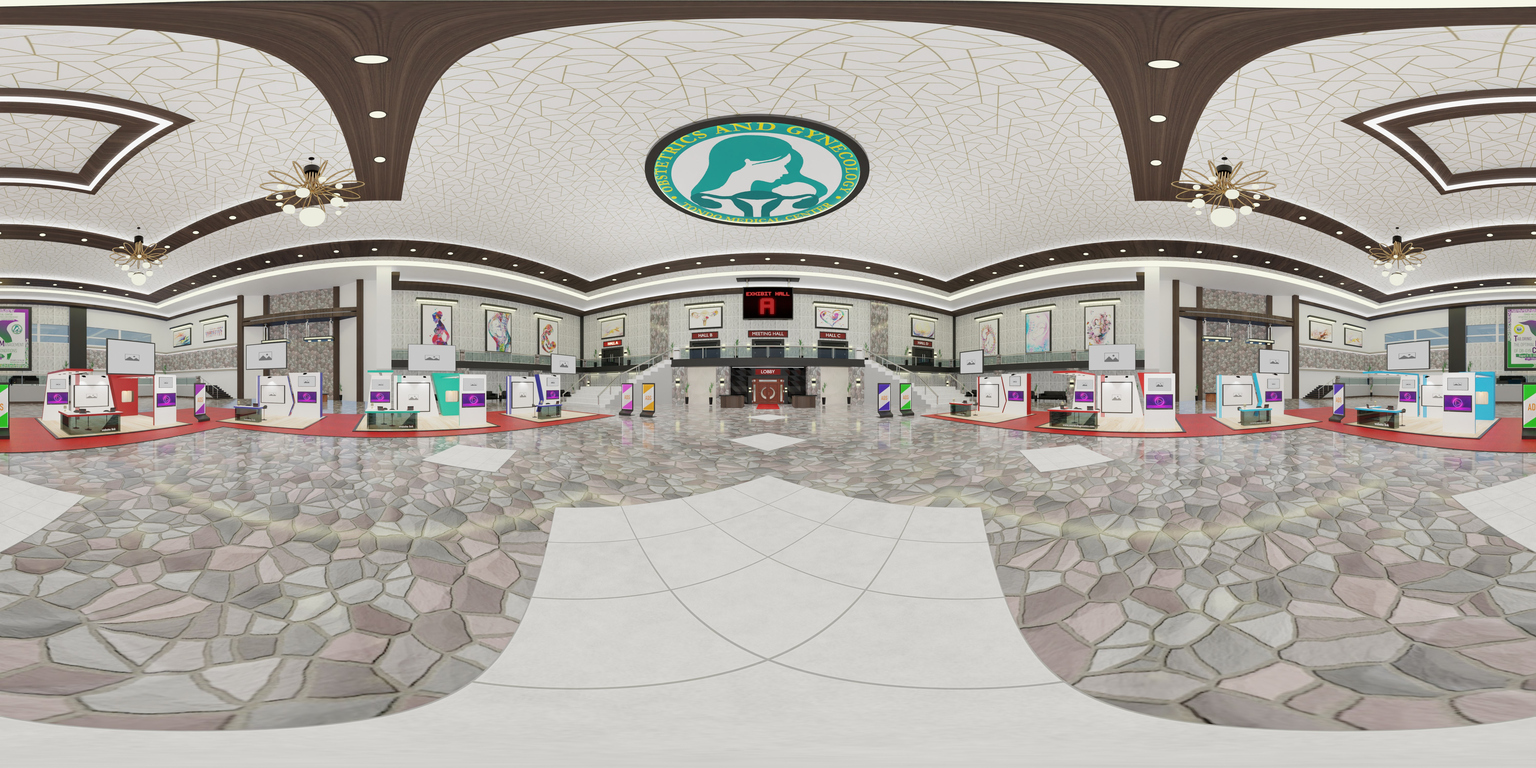
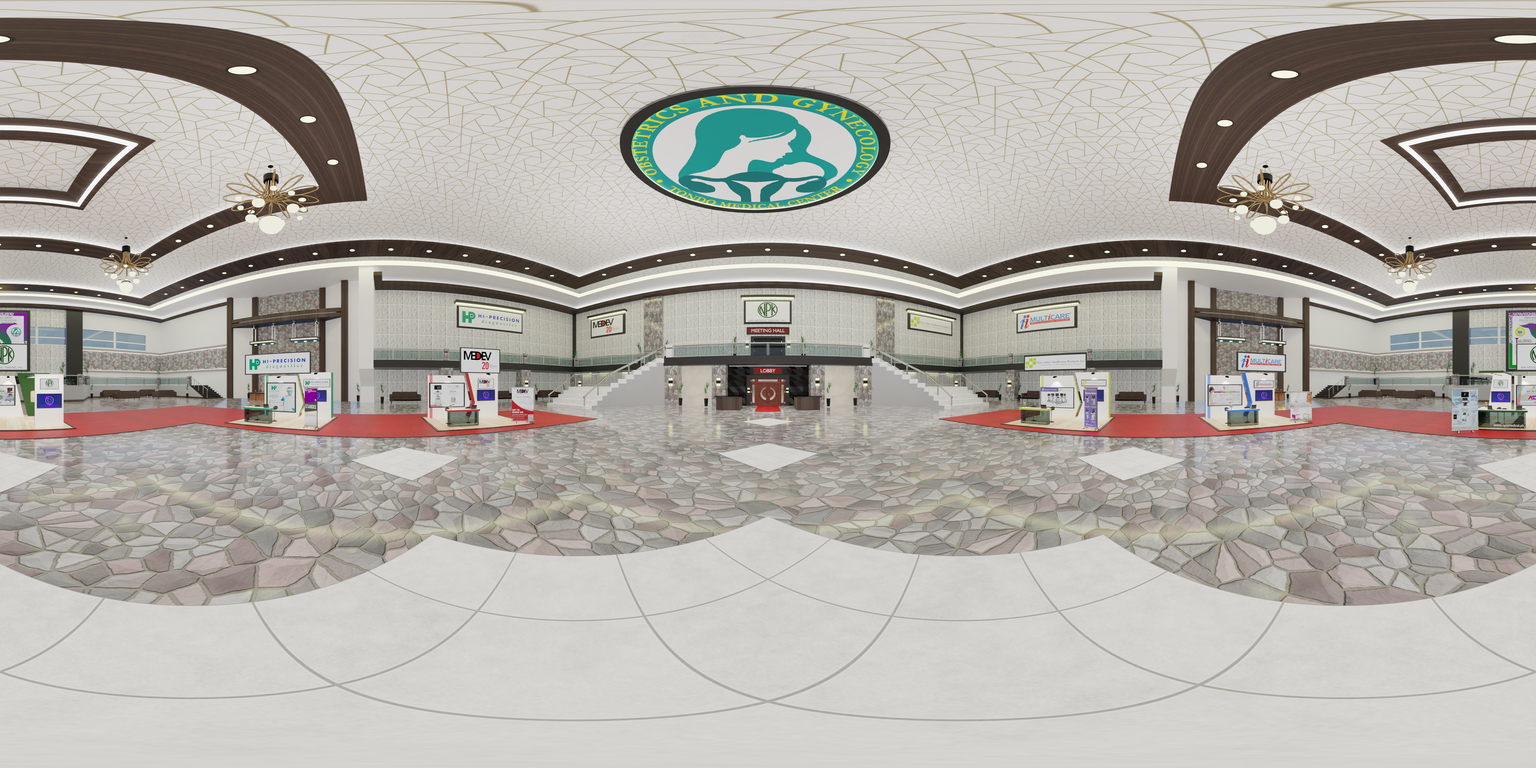
update Booth Coordinates

diff --git a/database/seeders/BoothSeeder.php b/database/seeders/BoothSeeder.php
@@ -67,96 +67,97 @@ class BoothSeeder extends Seeder
 
             'Hall A' => [
                 // left facing lobby/ hall a exit
-                ['MEDTEK', -1.73, -48.56, 'silver', "MEDTEK.png", "MEDTEK.png",
+                ['MEDEV', -1.42, -63.18, 'bronze', "MEDEV.png", "MEDEV.png",
                     [
-                        ['External Link','-14','-17.13','https://medtek.com.ph'],
-                        ['Contact Us','-5','-12',''],
-                        ['Quiz','-5','-22',''],
-                        ['Brochures','2','-4',''],
-                        ['Videos','1','14',''],
-                        ['Gallery','2','-14',''],
+                        ['External Link', '0','0','https://abbott.com'],
+                        ['Contact Us','0','0',''],
+                        ['Quiz', '0','0',''],
+                        ['Brochures', '0','0',''],
+                        ['Videos', '0','0',''],
+                        ['Gallery', '0','0','']
                     ]
                 ],
                 // SPONSOR_R2
-                ['LifelineDiagnostics', -2.35, -78.09, 'silver', "LifelineDiagnostics.png", "LifelineDiagnostics.png",
+                ['Hi-Precision', -1.62, -117.94, 'bronze', "Hi-Precision.png", "Hi-Precision.png",
                     [
-                        ['External Link','-14.88', '-24.08','https://lifelinediag.com'],
-                        ['Contact Us','-4.69', '-22.21',''],
-                        ['Quiz','-4.69', '-32.44',''],
-                        ['Brochures','1.31', '2.06',''],
-                        ['Videos','1.33', '33.19',''],
-                        ['Gallery','1.31', '-7.91',''],
+                        ['External Link', '0','0','https://abbott.com'],
+                        ['Contact Us','0','0',''],
+                        ['Quiz', '0','0',''],
+                        ['Brochures', '0','0',''],
+                        ['Videos', '0','0',''],
+                        ['Gallery', '0','0','']
                     ]
                 ],
 
                 // SPONSOR_R3
-                ['AGAPPE', -1.81, -115.98, 'silver', "AGAPPE.png", "AGAPPE.png",
+                ['NPK', -2.34, -179.85, 'silver', "NPK.png", "NPK.png",
                     [
-                        ['External Link', '-14.09','-16.98', 'https://agappe.com'],
-                        ['Contact Us', '-5.01','-15.86',''],
-                        ['Quiz', '-5.01','-23.12',''],
-                        ['Brochures', '2.30','-5.31',''],
-                        ['Videos', '1.00','11.84',''],
-                        ['Gallery', '2.30','-13.13',''],
+                        ['External Link', '-14.64','-19.15','https://npkmedical.ph'],
+                        ['Contact Us','-8.62','-10.57',''],
+                        ['Quiz', '-7.73','-26.06',''],
+                        ['Brochures', '-2.19','14.83',''],
+                        ['Videos', '-2.20','-14.82',''],
+                        ['Gallery', '-1.36','-1.40','']
                     ]
                 ],
 
 
                 // LEFT SPONSOR_L4
-                ['Ortho Clinical Diagnostics', -1.89, -150.59, 'silver', "Ortho.png", "Ortho.png",
+                ['Multicare', -0.85, 117.22, 'bronze', "Multicare.png", "Multicare.png",
                     [
-                        ['External Link', '-9.24', '-18.72','https://orthoclinicaldiagnostics.com'],
-                        ['Contact Us', '-3.34', '-13.67',''],
-                        ['Quiz', '-3.34', '-21.41',''],
-                        ['Brochures', '1.59', '3.76',''],
-                        ['Videos', '1.17', '26.57',''],
-                        ['Gallery', '1.59', '-5.74',''],
+                        ['External Link', '-15.28','-13.80','https://journeytomotherhoodandbeyond.info'],
+                        ['Contact Us','-9.23','-6.75',''],
+                        ['Quiz', '-8.81','-17.10',''],
+                        ['Brochures', '-1.18','-1.59',''],
+                        ['Videos', '-2.41','11.19',''],
+                        ['Gallery', '-1.16','-11.11','']
                     ]
                 ],
                 // SPONSOR_L5
-                ['Abbott', -2.53, 148.75, 'silver', "Abbott.png", "Abbott.png",
+                ['Toyo Adtec', -0.32, 63.65, 'bronze', "Toyo_Adtec.png", "Toyo_Adtec.png",
                     [
-                        ['External Link', '-9.48','-16.65','https://abbott.com'],
-                        ['Contact Us', '-3.33','-14.54',''],
-                        ['Quiz','-3.33', '-22.45',''],
-                        ['Brochures', '1.38','2.77',''],
-                        ['Videos', '1.12','25.19',''],
-                        ['Gallery', '1.38','-6.16',''],
+                        ['External Link', '-15.11','-13.88','https://tahealthcaregroup.com'],
+                        ['Contact Us','-9.32','-6.84',''],
+                        ['Quiz', '-8.35','-17.68',''],
+                        ['Brochures', '-2.81','-2.86',''],
+                        ['Videos', '-2.14','10.50',''],
+                        ['Gallery', '-2.81','-13.54','']
                     ]
                 ],
+
                 // SPONSOR_L6
-                ['I.T. EASY SOFTWARE SOLUTIONS INC.', -1.56, 118.42, 'silver', "it_easy.png", "it_easy.png",
-                    [
-                        ['External Link', '-14.17','-13.87','https://easy.com.ph'],
-                        ['Contact Us', '-4.80','-12.18',''],
-                        ['Quiz','-4.80', '-20.86',''],
-                        ['Brochures', '2.37','-5.24',''],
-                        ['Videos', '1.00','13.74',''],
-                        ['Gallery', '2.25','-12.52',''],
-                    ]
-                ],
-                // SPONSOR_L7
-                ['MUREX', -0.93, 79.06, 'silver', "MUREX.png", "MUREX.png",
-                    [
-                        ['External Link', '-15.07','-24.02','https://murexdiagnostics.com'],
-                        ['Contact Us', '-5.09','-17.95',''],
-                        ['Quiz','-5.09', '-29.08',''],
-                        ['Brochures', '1.59','4.82',''],
-                        ['Videos', '1.46','36.26',''],
-                        ['Gallery', '1.59','-6.23',''],
-                    ]
-                ],
-                // SPONSOR_L8
-                ['RHUMBA INC.', -0.97, 49.44, 'silver', "RHUMBA.png", "RHUMBA.png",
-                    [
-                        ['External Link', '-13.98','-15.73','https://rhumba-inc.com'],
-                        ['Contact Us', '-5.08','-13.00',''],
-                        ['Quiz','-5.08', '-22.45',''],
-                        ['Brochures', '1.66','-4.96',''],
-                        ['Videos', '1.073','13.20',''],
-                        ['Gallery', '1.66','-14.07',''],
-                    ]
-                ],
+                // ['I.T. EASY SOFTWARE SOLUTIONS INC.', -1.56, 118.42, 'silver', "it_easy.png", "it_easy.png",
+                //     [
+                //         ['External Link', '-14.17','-13.87','https://easy.com.ph'],
+                //         ['Contact Us', '-4.80','-12.18',''],
+                //         ['Quiz','-4.80', '-20.86',''],
+                //         ['Brochures', '2.37','-5.24',''],
+                //         ['Videos', '1.00','13.74',''],
+                //         ['Gallery', '2.25','-12.52',''],
+                //     ]
+                // ],
+                // // SPONSOR_L7
+                // ['MUREX', -0.93, 79.06, 'silver', "MUREX.png", "MUREX.png",
+                //     [
+                //         ['External Link', '-15.07','-24.02','https://murexdiagnostics.com'],
+                //         ['Contact Us', '-5.09','-17.95',''],
+                //         ['Quiz','-5.09', '-29.08',''],
+                //         ['Brochures', '1.59','4.82',''],
+                //         ['Videos', '1.46','36.26',''],
+                //         ['Gallery', '1.59','-6.23',''],
+                //     ]
+                // ],
+                // // SPONSOR_L8
+                // ['RHUMBA INC.', -0.97, 49.44, 'silver', "RHUMBA.png", "RHUMBA.png",
+                //     [
+                //         ['External Link', '-13.98','-15.73','https://rhumba-inc.com'],
+                //         ['Contact Us', '-5.08','-13.00',''],
+                //         ['Quiz','-5.08', '-22.45',''],
+                //         ['Brochures', '1.66','-4.96',''],
+                //         ['Videos', '1.073','13.20',''],
+                //         ['Gallery', '1.66','-14.07',''],
+                //     ]
+                // ],
             ],
 
             // 'Hall B' => [
